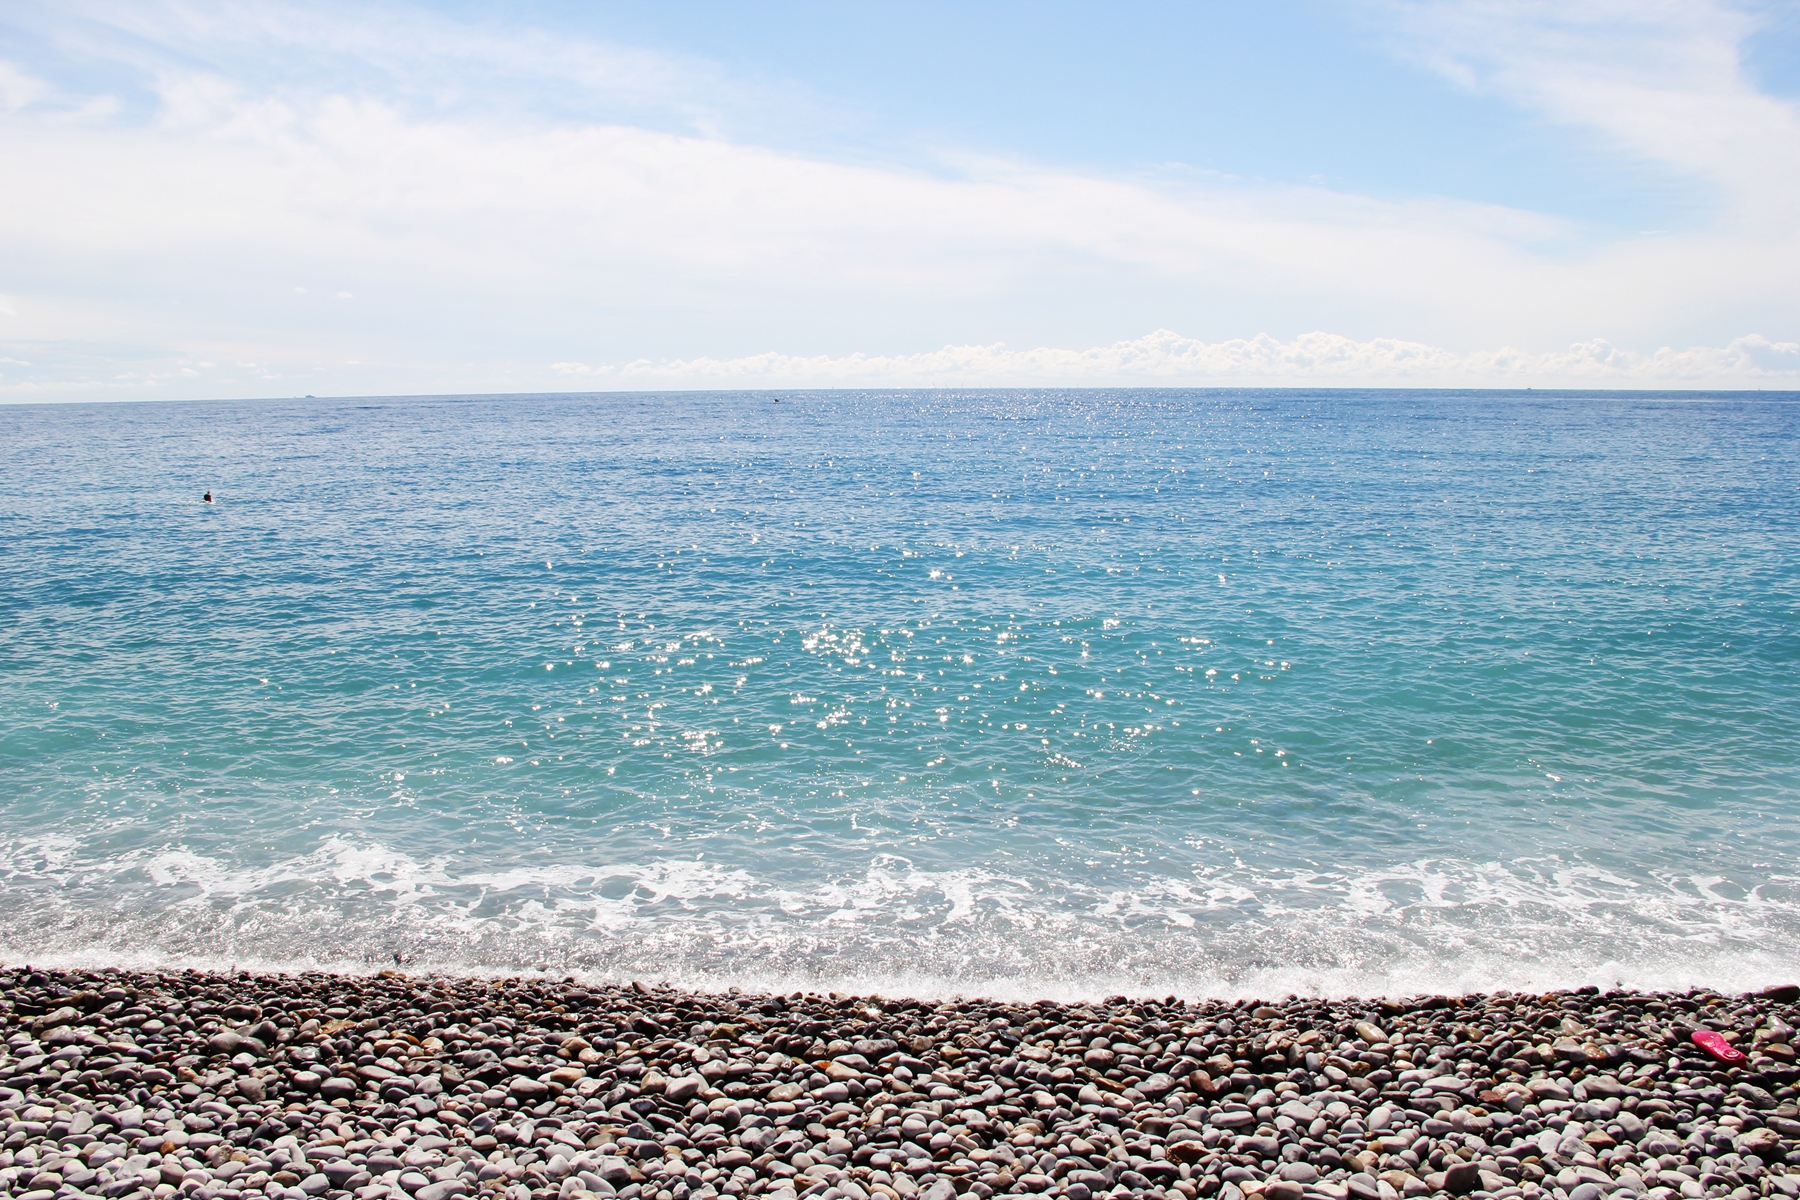
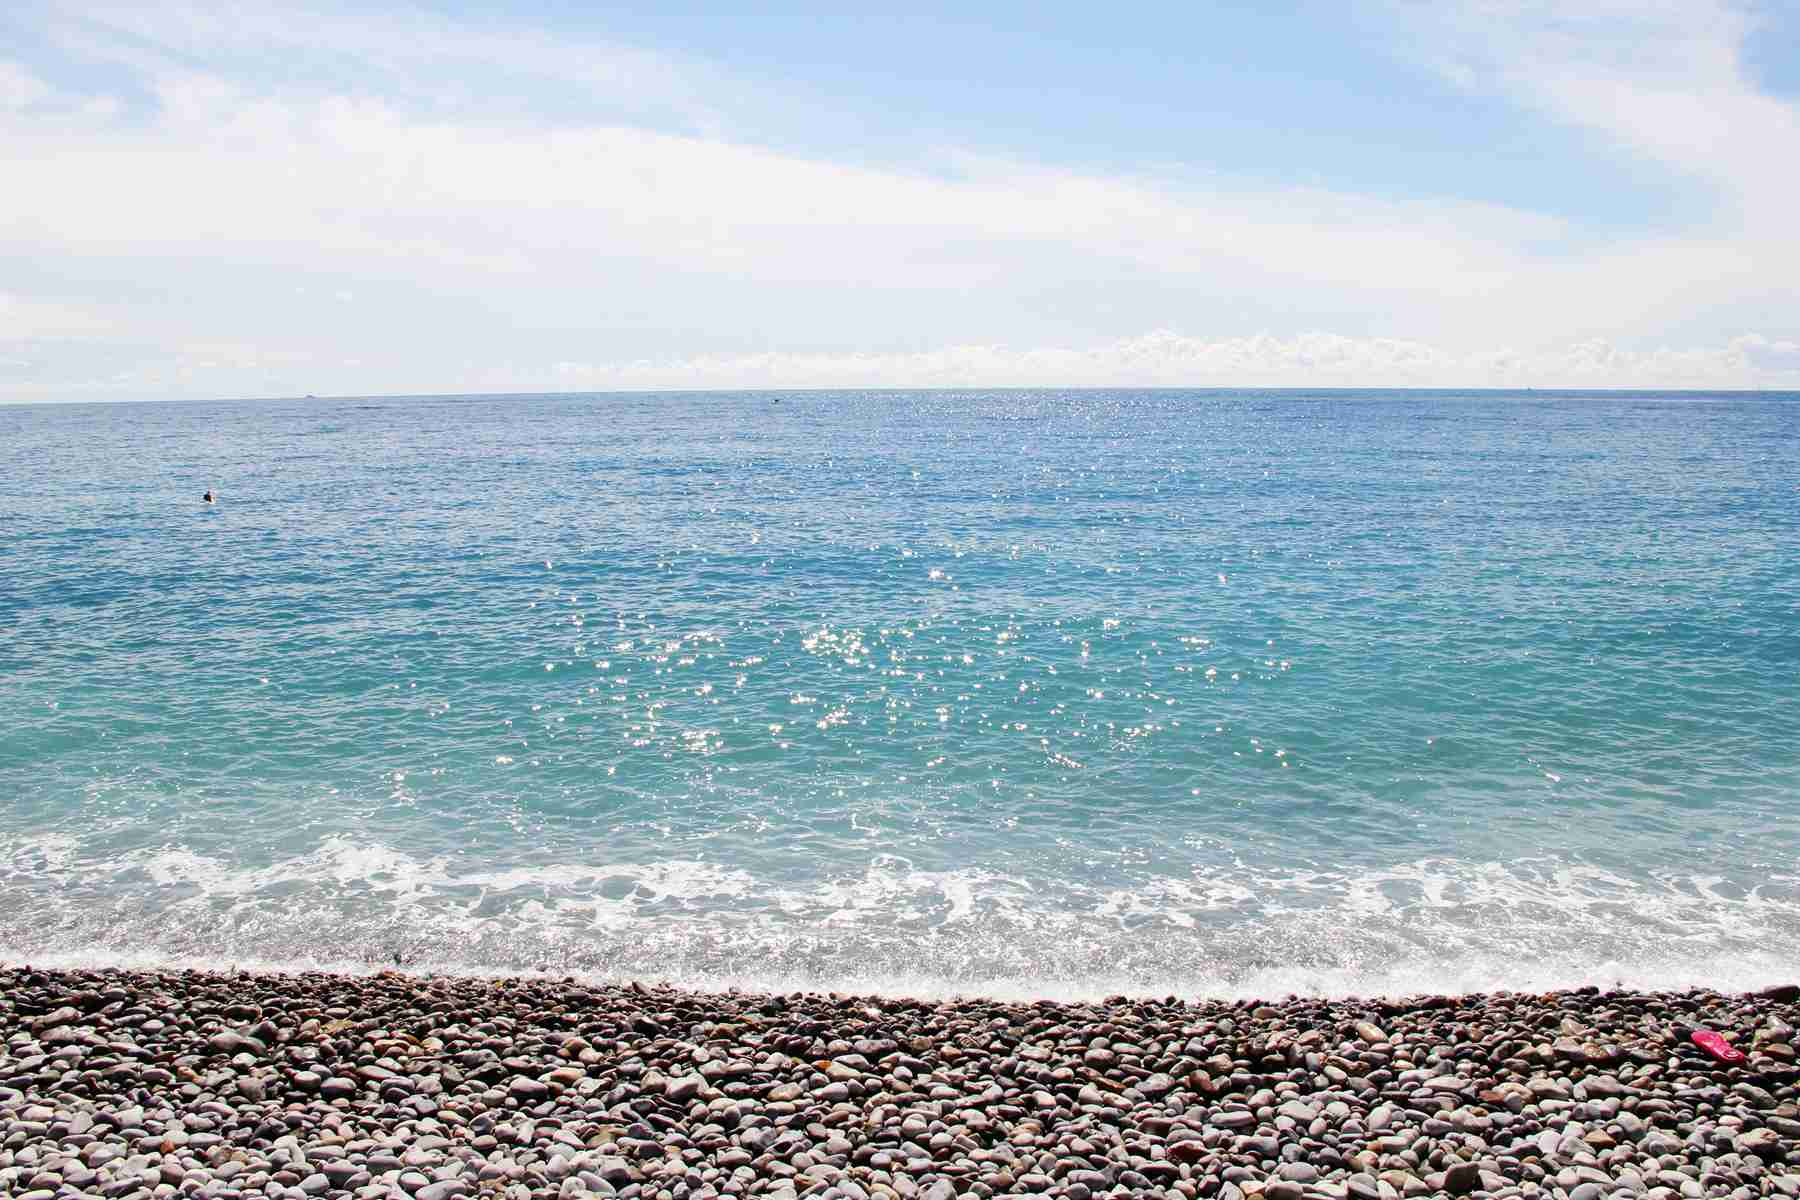
modification of pics size

diff --git a/public/stylesheets/mariage.css b/public/stylesheets/mariage.css
@@ -182,7 +182,7 @@ th{
     background-size: 100% 100%;
 }
 #slide8{
-	background-image: url("fond_matin.jpg");
+	background-image: url("fond_matin_sm.jpg");
 	background-repeat: no-repeat;
     background-size: 100% 100%;
 }
